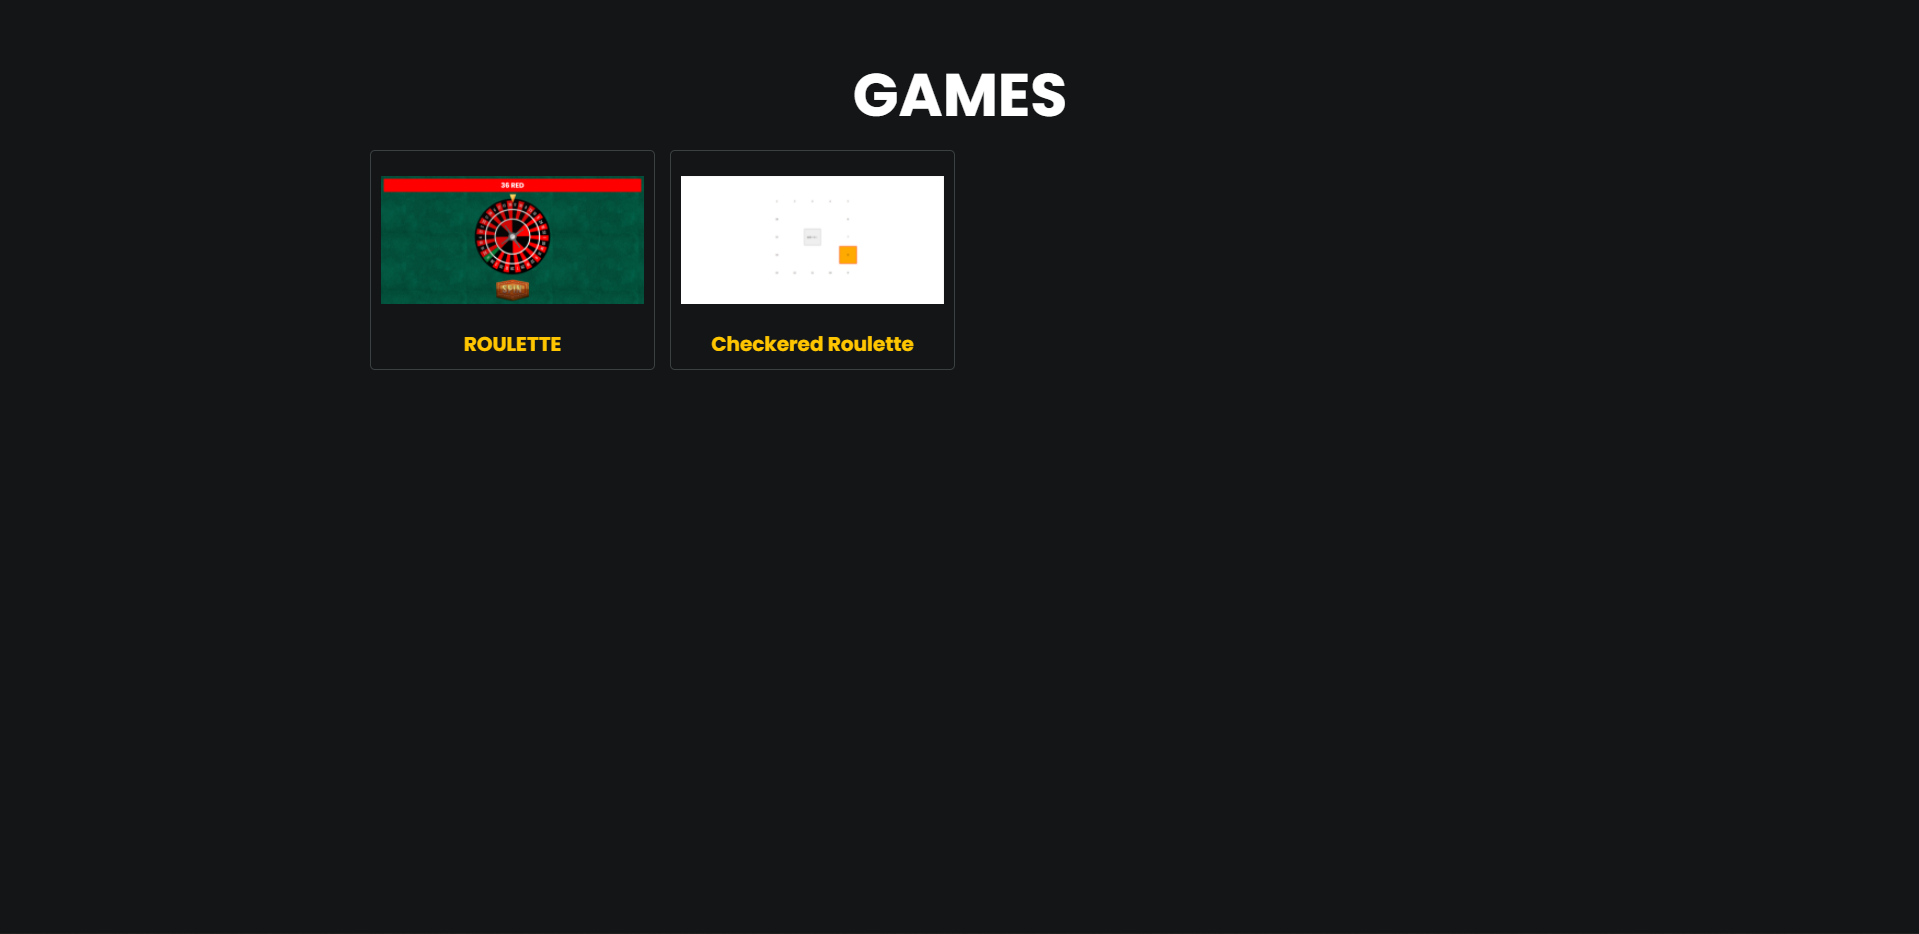
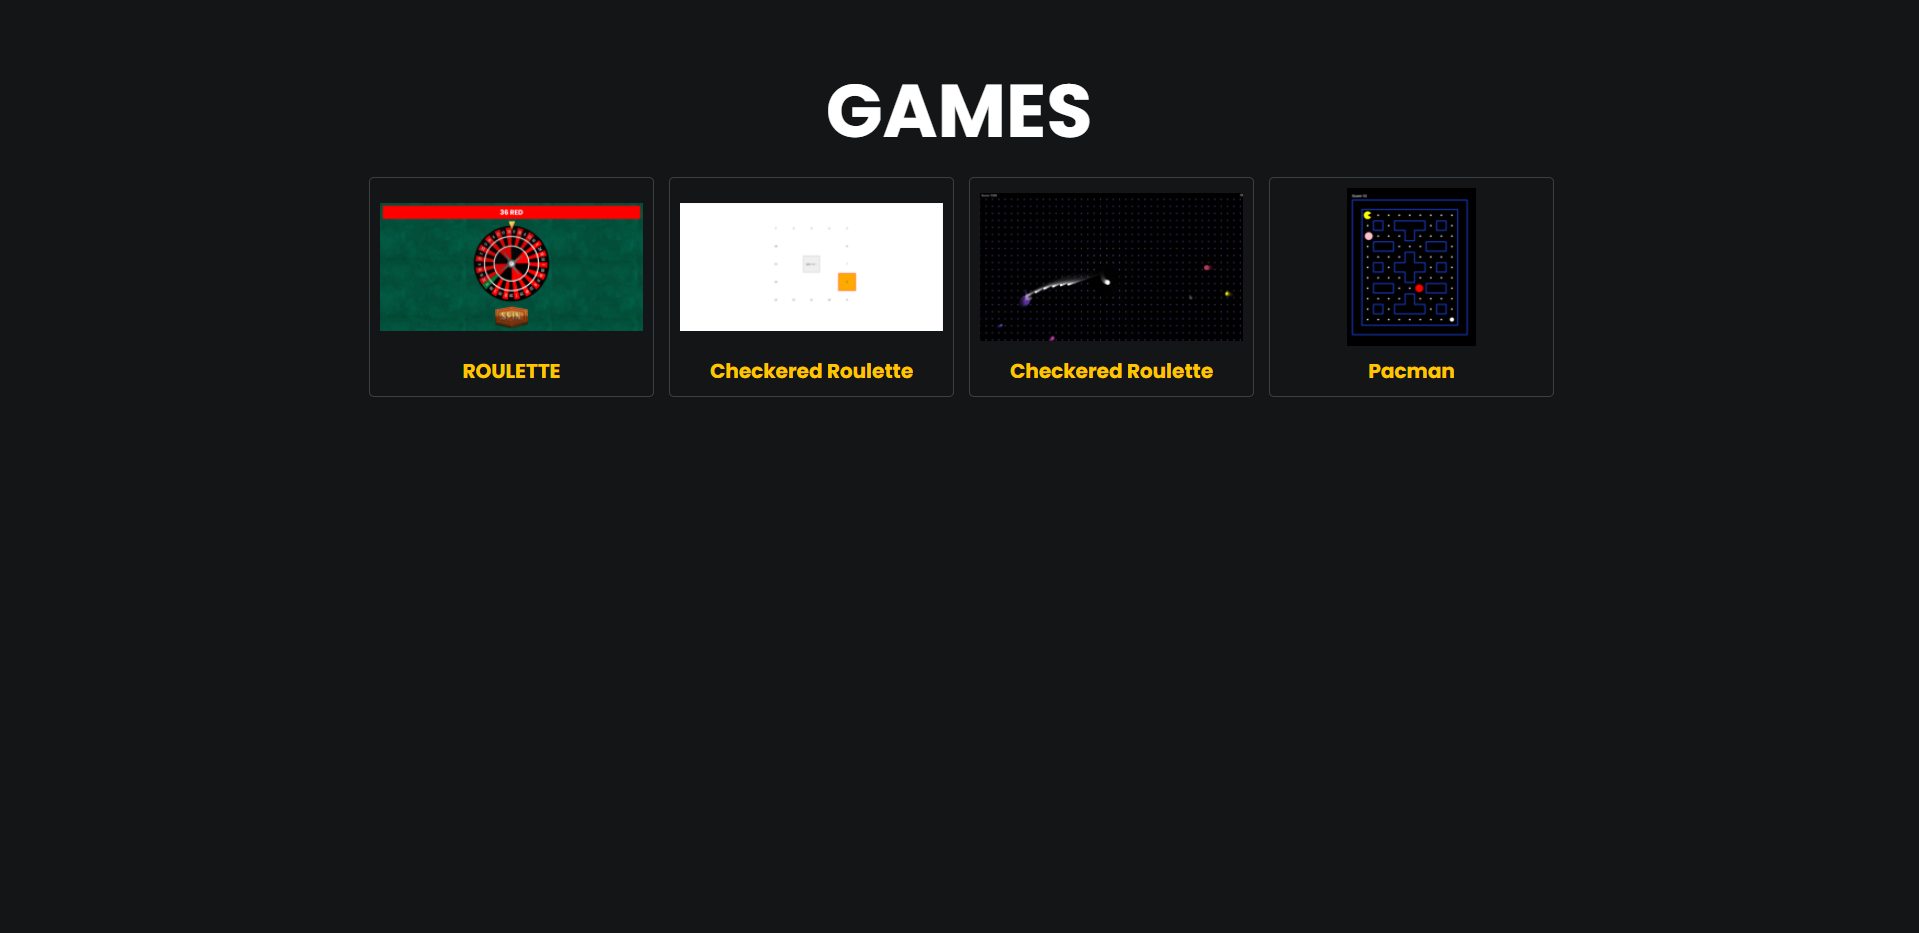
2022-07-16-change-games-page

diff --git a/html/games.html b/html/games.html
@@ -12,9 +12,9 @@
         <div class="container">
             <div class="row">
                 <ul>
-                    <li class="col-lg-3">
+                    <li class="col-lg-3 col-md-4 col-sm-2">
                         <div class="block">
-                            <a href="../html/roulette.html">
+                            <a href="../game/roulette/roulette.html">
                                 <div class="image-container">
                                     <div class="images">
                                         <img src="../image/roulette.png" alt="">
@@ -24,9 +24,9 @@
                             </a>
                         </div>
                     </li>
-                    <li class="col-lg-3">
+                    <li class="col-lg-3 col-md-4 col-sm-2">
                         <div class="block">
-                            <a href="../html/checkered_roulette.html">
+                            <a href="../game/checkered_roulette/checkered_roulette.html">
                                 <div class="image-container">
                                     <div class="images">
                                         <img src="../image/checkered.png" alt="">
@@ -36,7 +36,7 @@
                             </a>
                         </div>
                     </li>
-                    <li class="col-lg-3">
+                    <li class="col-lg-3 col-md-4 col-sm-2">
                         <div class="block">
                             <a href="../game/canvas-game/index.html">
                                 <div class="image-container">
@@ -48,15 +48,15 @@
                             </a>
                         </div>
                     </li>
-                    <li class="col-lg-3">
+                    <li class="col-lg-3 col-md-4 col-sm-2">
                         <div class="block">
                             <a href="../game/pacman/index.html">
                                 <div class="image-container">
                                     <div class="images">
-                                        <img src="../image/checkered.png" alt="">
+                                        <img src="../image/pacman.png" alt="">
                                     </div>
                                 </div>
-                                <div class="item">Checkered Roulette</div>
+                                <div class="item">Pacman</div>
                             </a>
                         </div>
                     </li>

diff --git a/game/roulette/roulette.html b/game/roulette/roulette.html
@@ -4,16 +4,16 @@
     <meta charset="UTF-8">
     <meta name="viewport" content="width=device-width, initial-scale=1.0">
     <title>ROULETTE</title>
-    <link rel="stylesheet" href="../css/roulette.css">
+    <link rel="stylesheet" href="./roulette.css">
 </head>
 <body>
     <h1 id="result" class="result"></h1>
     <div class="app">
-        <img src="../image/roulette_arrow.png" alt="" class="arrow">
-        <img src="../image/roulette_wheel.png" alt="" class="wheel">
-        <img src="../image/roulette_spin.png" alt="" class="button">
+        <img src="./images/roulette_arrow.png" alt="" class="arrow">
+        <img src="./images/roulette_wheel.png" alt="" class="wheel">
+        <img src="./images/roulette_spin.png" alt="" class="button">
     </div>
 
-    <script src="../js/roulette.js"></script>
+    <script src="./roulette.js"></script>
 </body>
 </html>

diff --git a/game/checkered_roulette/checkered_roulette.html b/game/checkered_roulette/checkered_roulette.html
@@ -4,7 +4,7 @@
     <meta charset="UTF-8">
     <meta name="viewport" content="width=device-width, initial-scale=1.0">
     <title>checkered roulette</title>
-    <link rel="stylesheet" href="../css/checkered_roulette.css">
+    <link rel="stylesheet" href="./checkered_roulette.css">
 </head>
 <body>
     <table>
@@ -39,6 +39,6 @@
         </tr>
     </table>
 
-    <script src="../js/checkered_roulette.js"></script>
+    <script src="./checkered_roulette.js"></script>
 </body>
 </html>

diff --git a/game/roulette/roulette.css b/game/roulette/roulette.css
@@ -7,7 +7,7 @@
     position: relative;
 }
 body {
-    background-image: url('../image/roulette_bg.jpg');
+    background-image: url('./images/roulette_bg.jpg');
 }
 
 .result {    
